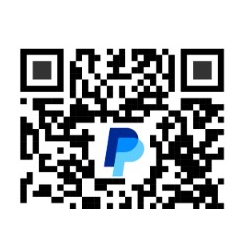
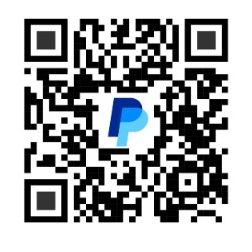
updating paypal qr code

diff --git a/portal.html b/portal.html
@@ -9,7 +9,7 @@
   <meta name="robots" content="noindex, nofollow">
   <title>Project portal — CodeWithRuben</title>
   <link rel="shortcut icon" href="/assets/images/logo/logo.jpg" type="image/x-icon">
-  <link rel="stylesheet" href="/assets/css/client-portal.css?v=pay-qr-20260820">
+  <link rel="stylesheet" href="/assets/css/client-portal.css?v=pay-qr-20260820b">
   <link rel="stylesheet" href="/assets/css/portfolio-markdown.css?v=guide-video-20260816">
   <link rel="preconnect" href="https://fonts.googleapis.com">
   <link rel="preconnect" href="https://fonts.gstatic.com" crossorigin>
@@ -57,7 +57,7 @@
   <script src="/assets/js/customer-dm-shared.js?v=portal-dm-overlay-20260606"></script>
   <script src="/assets/js/business-doc-shared.js?v=portal-color-scheme-20260817n"></script>
   <script src="/assets/js/portfolio-detail-shared.js?v=requality-20260818o"></script>
-  <script src="/assets/js/client-portal.js?v=pay-qr-20260820"></script>
+  <script src="/assets/js/client-portal.js?v=pay-qr-20260820b"></script>
 
 </body>
 

diff --git a/assets/css/client-portal.css b/assets/css/client-portal.css
@@ -1430,11 +1430,12 @@ body.portal-doc-sheet-open {
   display: block;
   width: min(240px, 100%);
   height: auto;
-  aspect-ratio: 1;
   object-fit: contain;
+  object-position: center;
   background: #fff;
-  padding: 10px;
+  padding: 12px;
   border-radius: 12px;
+  box-sizing: border-box;
 }
 
 .client-portal-pay-handle-row {

diff --git a/assets/js/client-portal.js b/assets/js/client-portal.js
@@ -27,7 +27,7 @@
     {
       id: 'paypal',
       label: 'PayPal',
-      qr: '/assets/images/payments/paypal-qr.png',
+      qr: '/assets/images/payments/paypal-qr.png?v=full-20260820',
       hint: 'Open PayPal and scan. Put the memo below in the note.'
     },
     {
